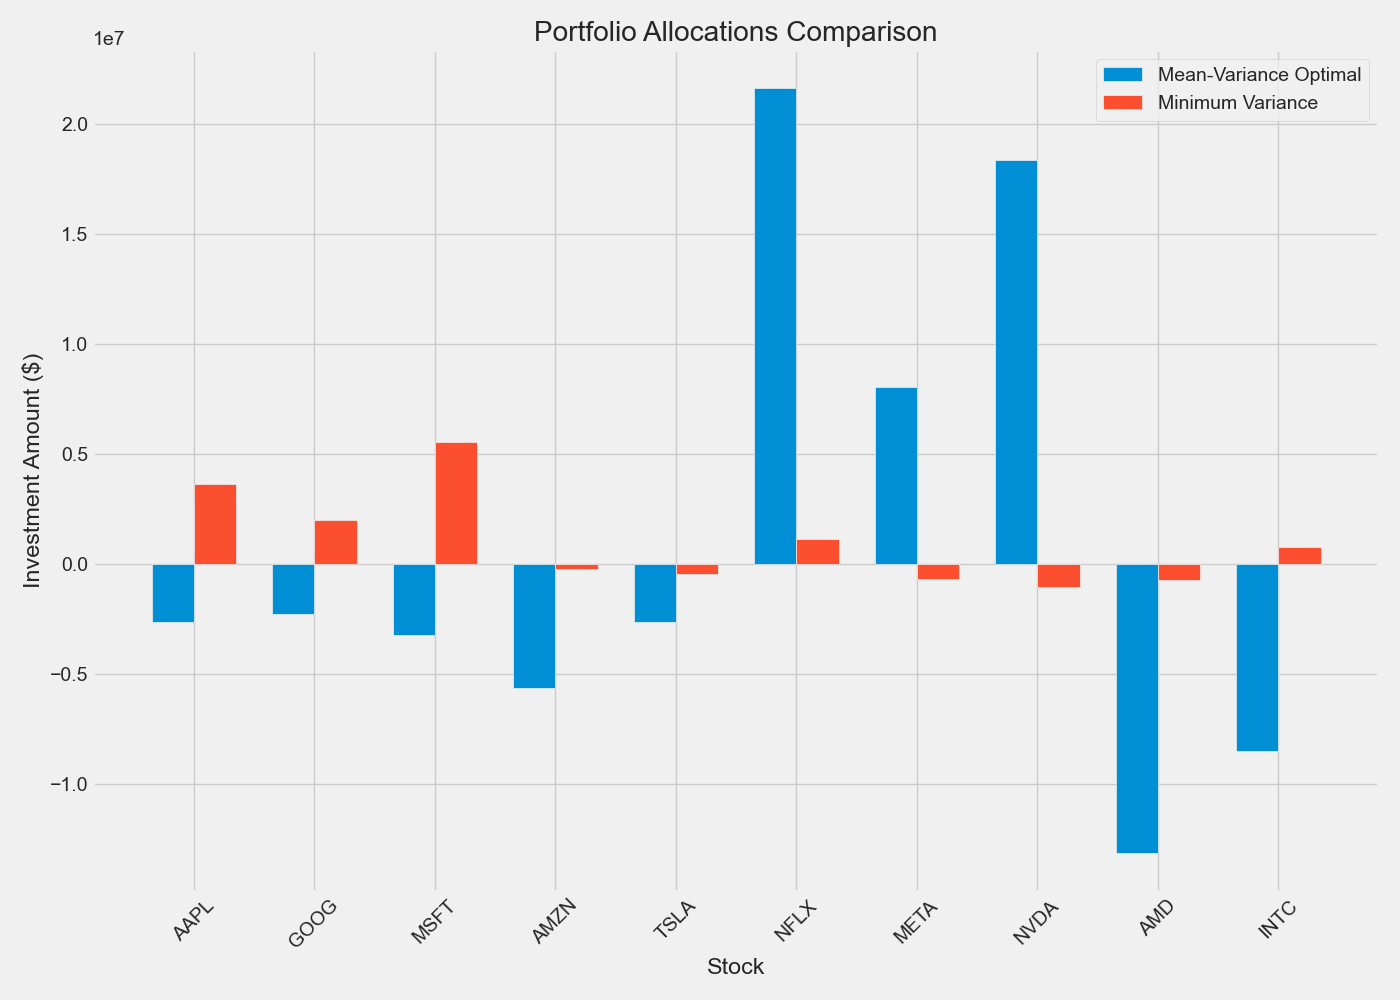
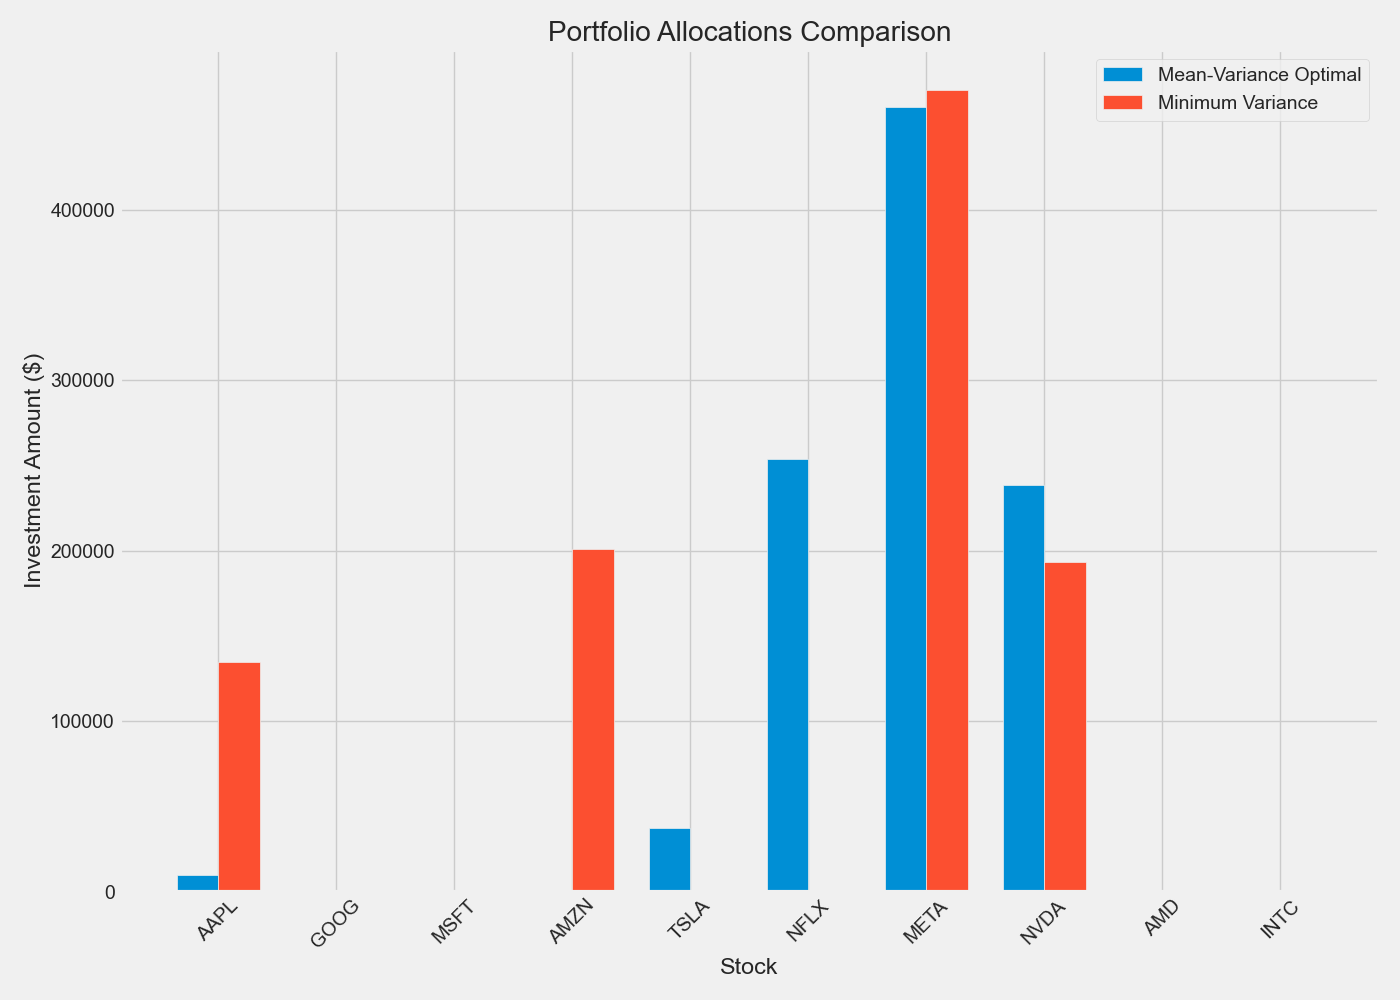
New functions

diff --git a/main.py b/main.py
@@ -1,11 +1,12 @@
 from functions import *
+from search import *
 import matplotlib.pyplot as plt
 
 # For time stamps
 from datetime import datetime
 # Set up End and Start times for data grab, starts from 1 year ago to today
 end = datetime.now()
-start = datetime(end.year - 3, end.month, end.day)
+start = datetime(end.year - 1, end.month, end.day)
     
 # The stocks we'll use for this analysis
 company_list = ['AAPL', 'GOOG', 'MSFT', 'AMZN', 'TSLA', 'NFLX', 'META', 'NVDA', 'AMD', 'INTC']
@@ -23,7 +24,7 @@ company_list = ['AAPL', 'GOOG', 'MSFT', 'AMZN', 'TSLA', 'NFLX', 'META', 'NVDA', 
 #     'AXON', 'MELI', 'PDD', 'GFS', 'ON', 'ODFL', 'CSGP', 'CPRT', 'WBD', 'KDP'
 # ]
 n = len(company_list)
-budget = 10000000
+budget = 1000000  # Total budget for the portfolio
 
 # A: Risk aversion coefficient in Modern Portfolio Theory (MPT)
 # --------------------------------------------------------------
@@ -35,6 +36,7 @@ A = 10
 
 stock_return_map = {}
 stock_stdev_map = {}
+stock_recent_price_map = {}
 
 # Download the data from Yahoo Finance
 for stock in company_list:
@@ -43,13 +45,24 @@ for stock in company_list:
 # Gather data for each stock and write to CSV
 stocks_return_string = "Average Daily Return of Stocks\n"
 stocks_stdev_string = "Standard Deviation of Stocks' Return\n"
+stocks_price_string = "Most recent closing price of Stocks\n"
+closing_prices = []
 for company in company_list:
     return_str = get_return(globals()[company]).to_string().split("\n")[1]
     stdev_str = get_votatility(globals()[company]).to_string().split("\n")[1]
+    price_str = get_closing_price(globals()[company]).to_string().split("\n")[2]
+    # print(price_str)
+    # print(price_str.split()[1])
+    # price_str = get_closing_price(globals()[company]).to_string().split("\n")[1]
     stocks_return_string += return_str + "\n"
     stocks_stdev_string += stdev_str + "\n"
+    stocks_price_string += company + ": " + price_str.split()[1] + "\n"
+    # stocks_price_string += price_str + "\n"
     stock_return_map[company] = float(return_str.split()[1])
     stock_stdev_map[company] = float(stdev_str.split()[1])
+    stock_recent_price_map[company] = float(price_str.split()[1])
+    closing_prices.append(float(price_str.split()[1]))
+    # stock_recent_price_map[company] = float(price_str.split()[1])
 
 M = get_covariance_matrix(company_list, start, end)
 cov_dict = M.to_dict()
@@ -65,6 +78,8 @@ with open("stdev.csv", "w") as f:
     f.write(stocks_stdev_string)
 with open("cov.csv", "w") as f:
     f.write(M.to_string())
+with open("price.csv", "w") as f:
+    f.write(stocks_price_string)
 
 # Set up the optimization problem
 m = np.zeros((n, n))
@@ -80,11 +95,14 @@ for i in range(n):
         m[i][j] = cov_dict[company_list[i]][company_list[j]]
 
 # Solve for x
-x = np.linalg.solve(m, b)
-x /= np.sum(x)
+expected_returns = np.array(list(stock_return_map.values()))
+x = solve_mpt_constrained(expected_returns, M, A)
+# x = np.linalg.solve(m, b)
+# x /= np.sum(x)
 output = "--- Mean-Variance Optimal Portfolio ---\n"
 portfolio_return = 0
 portfolio_volatility = 0
+
 for i in range(n):
     output += f"{company_list[i]}: {round(float(x[i]*budget))}\n"
 with open("out.csv", "w") as f:
@@ -125,6 +143,7 @@ aug_b[n, 0] = 1
 
 # Solve for weights and lagrange multiplier
 aug_solution = np.linalg.solve(aug_m, aug_b)
+aug_solution = solve_min_variance_portfolio(M)
 minvar_weights = aug_solution[:n].reshape((n, 1))
 
 # Expected portfolio return for minimum variance portfolio
@@ -163,3 +182,29 @@ plt.legend()
 plt.tight_layout()
 # Save plot
 plt.savefig('portfolio_comparison.png')
+
+# Using backtracking to find the optimal portfolio
+# --------------------------------------------------------------
+meanvar_allocations = generate_share_options(x, closing_prices, budget)
+print(meanvar_allocations)
+
+best_solution = [None]
+best_utility = [-float("inf")]
+
+backtrack_mean_variance(
+    index=0,
+    current_combo=[],
+    current_cost=0,
+    budget=budget,
+    options=meanvar_allocations,
+    stock_prices=np.array(list(stock_recent_price_map.values())),
+    expected_returns=np.array(list(stock_return_map.values())),
+    cov_matrix=cov_matrix,
+    A=A,
+    best_solution=best_solution,
+    best_utility=best_utility
+)
+
+# Access result:
+print("Best portfolio (shares):", best_solution[0])
+print("Best utility:", best_utility[0])

diff --git a/search.py b/search.py
@@ -1,0 +1,102 @@
+# backtracking_solver.py
+import numpy as np
+import itertools
+
+# Prepare *NUMBER OF SHARES* options per stock based on MPT weights
+def generate_share_options(mpt_weights, stock_prices, budget):
+    options = []
+    for i in range(len(stock_prices)):
+        ideal_dollar = mpt_weights[i] * budget
+        ideal_shares = ideal_dollar / stock_prices[i]
+        floor_shares = max(int(np.floor(ideal_shares)), 0)
+        ceil_shares = int(np.ceil(ideal_shares))
+        options.append([floor_shares, ceil_shares])
+    return options
+
+# Backtracking to maximize mean-variance utility
+
+def backtrack_mean_variance(
+    index,
+    current_combo,
+    current_cost,
+    budget,
+    options,
+    stock_prices,
+    expected_returns,
+    cov_matrix,
+    A,
+    best_solution,
+    best_utility
+):
+    n = len(stock_prices)
+
+    if index == n:
+        if current_cost <= budget:
+            investments = np.array(current_combo) * stock_prices
+            weights = investments / np.sum(investments)
+            port_return = np.dot(weights, expected_returns)
+            variance = np.dot(weights.T, np.dot(cov_matrix, weights))
+            utility = port_return - A * variance
+            if utility > best_utility[0]:
+                best_utility[0] = utility
+                best_solution[0] = list(current_combo)
+        return
+
+    for shares in options[index]:
+        new_cost = current_cost + shares * stock_prices[index]
+        if new_cost > budget:
+            continue
+        backtrack_mean_variance(
+            index + 1,
+            current_combo + [shares],
+            new_cost,
+            budget,
+            options,
+            stock_prices,
+            expected_returns,
+            cov_matrix,
+            A,
+            best_solution,
+            best_utility
+        )
+
+# Backtracking to minimize total portfolio variance
+
+def backtrack_min_variance(
+    index,
+    current_combo,
+    current_cost,
+    budget,
+    options,
+    stock_prices,
+    cov_matrix,
+    best_solution,
+    best_variance
+):
+    n = len(stock_prices)
+
+    if index == n:
+        if current_cost <= budget:
+            investments = np.array(current_combo) * stock_prices
+            weights = investments / np.sum(investments)
+            variance = np.dot(weights.T, np.dot(cov_matrix, weights))
+            if variance < best_variance[0]:
+                best_variance[0] = variance
+                best_solution[0] = list(current_combo)
+        return
+
+    for shares in options[index]:
+        new_cost = current_cost + shares * stock_prices[index]
+        if new_cost > budget:
+            continue
+        backtrack_min_variance(
+            index + 1,
+            current_combo + [shares],
+            new_cost,
+            budget,
+            options,
+            stock_prices,
+            cov_matrix,
+            best_solution,
+            best_variance
+        )

diff --git a/functions.py b/functions.py
@@ -1,5 +1,6 @@
 import pandas as pd
 import numpy as np
+import cvxpy as cp
 
 import matplotlib.pyplot as plt
 import seaborn as sns
@@ -34,6 +35,14 @@ def get_votatility(stock_df):
     daily_returns = stock_df['Close'].pct_change().dropna()
     return daily_returns.std()
 
+def get_closing_price(stock_df):
+    """
+    Function to get the most recent closing price of a stock
+    Input: Stock DataFrame
+    Output: Closing Price DataFrame
+    """
+    return stock_df['Close'].tail(1)
+
 def get_covariance_matrix(stock_list, start, end):
     """
     Returns the covariance matrix of the daily returns of a list of stocks
@@ -41,3 +50,42 @@ def get_covariance_matrix(stock_list, start, end):
     closing_df = yf.download(stock_list, start=start, end=end)['Close']
     returns = closing_df.pct_change().dropna()
     return returns.cov()
+
+def solve_mpt_constrained(expected_returns, cov_matrix, A):
+    n = len(expected_returns)
+    x = cp.Variable(n)
+    # Objective: maximize mean-variance utility
+    objective = cp.Maximize(x @ expected_returns - A * cp.quad_form(x, cov_matrix))
+    # Constraints: weights sum to 1, no short-selling
+    constraints = [
+        cp.sum(x) == 1,
+        x >= 0
+    ]
+    # Problem
+    prob = cp.Problem(objective, constraints)
+    prob.solve()
+    return x.value
+
+def solve_min_variance_portfolio(cov_matrix):
+    """
+    Solves for the minimum variance portfolio weights with no short-selling.
+
+    Parameters:
+    cov_matrix (numpy.ndarray): The covariance matrix of asset returns.
+
+    Returns:
+    numpy.ndarray: Optimal asset weights minimizing portfolio variance.
+    """
+    n = cov_matrix.shape[0]
+    w = cp.Variable(n)
+    # Objective: Minimize portfolio variance
+    objective = cp.Minimize(cp.quad_form(w, cov_matrix))
+    # Constraints: weights sum to 1, no short-selling
+    constraints = [
+        cp.sum(w) == 1,
+        w >= 0
+    ]
+    # Problem
+    prob = cp.Problem(objective, constraints)
+    prob.solve()
+    return w.value
